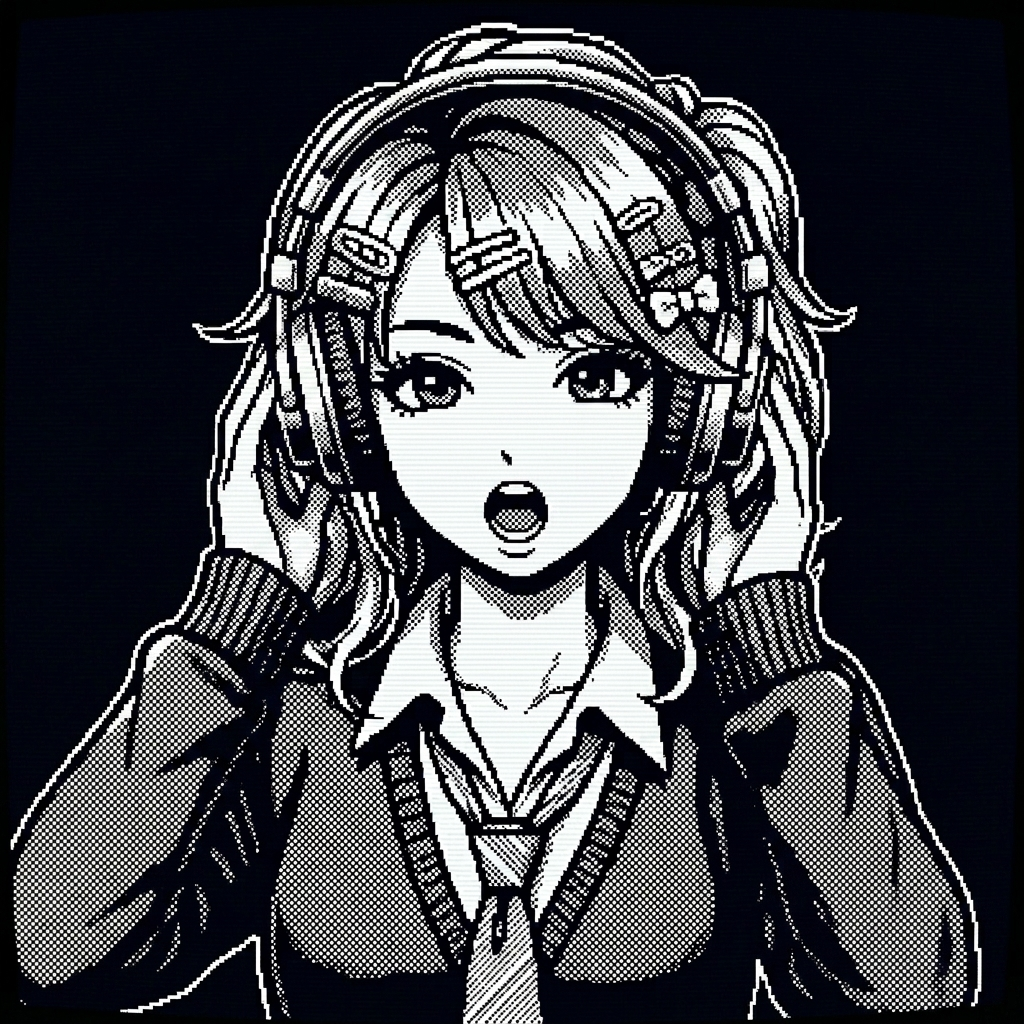
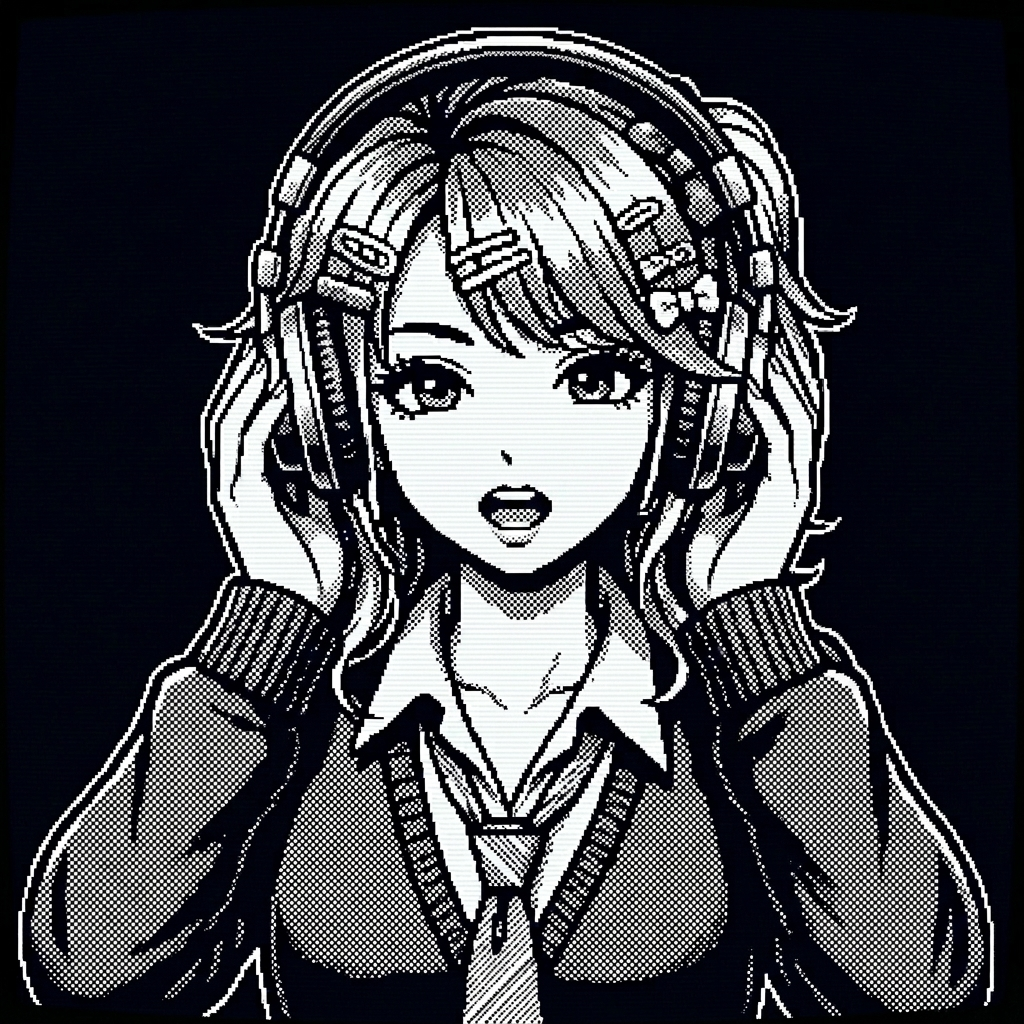
音楽再生中の表情制御: 目閉じリスニング＆会話時リップシンク改善
- 音楽再生中(会話なし): 目を閉じて音楽を楽しむ表情に変更
- 音楽再生中(会話時): 目を開けて口を動かすリップシンク
- talk_headphones.jpg を low_open_eyes_headphones.jpg と同じ手・ヘッドフォン位置で再生成し、交互切替時のチラつきを解消

diff --git a/app.js b/app.js
@@ -99,7 +99,7 @@ function init() {
 }
 
 function preloadMusicPortraits() {
-    const v = '?v=9';
+    const v = '?v=10';
     const imagesToPreload = [
         'assets/elena_mono_put_headphones.jpg' + v,
         'assets/elena_mono_low_headphones.jpg' + v,
@@ -1951,7 +1951,7 @@ function updatePortraitUI() {
     }
     
     // Cache buster to force browsers to reload newly overwritten images instantly
-    const v = '?v=9';
+    const v = '?v=10';
     
     if (isPuttingHeadphones || isRemovingHeadphones) {
         portrait.src = 'assets/elena_mono_put_headphones.jpg' + v;
@@ -1962,9 +1962,16 @@ function updatePortraitUI() {
     let suffix = '';
     let ext = 'png';
     if (isPlaying) {
-        // 音楽再生中は、画像の高速切り替えによる手や目のチラつき・ブレを100%防止するため、
-        // 「目は普通に開き、手はヘッドホンに当てたまま」の静止画（low_open_eyes_headphones）で完全に固定します。
-        state = 'low_open_eyes';
+        // 音楽再生中の表情制御:
+        // - 会話していない時: 目を閉じて音楽を楽しんでいる姿 (low_headphones)
+        // - 会話中: 目を開けて口を動かす (talk_headphones / low_open_eyes_headphones を交互)
+        if (talkInterval) {
+            // 会話中: currentPortraitState ('talk' or 'low') に基づいて切り替え
+            state = (currentPortraitState === 'talk') ? 'talk' : 'low_open_eyes';
+        } else {
+            // 音楽だけ聴いている時: 目を閉じてリラックス
+            state = 'low';
+        }
         suffix = '_headphones';
         ext = 'jpg';
     }
